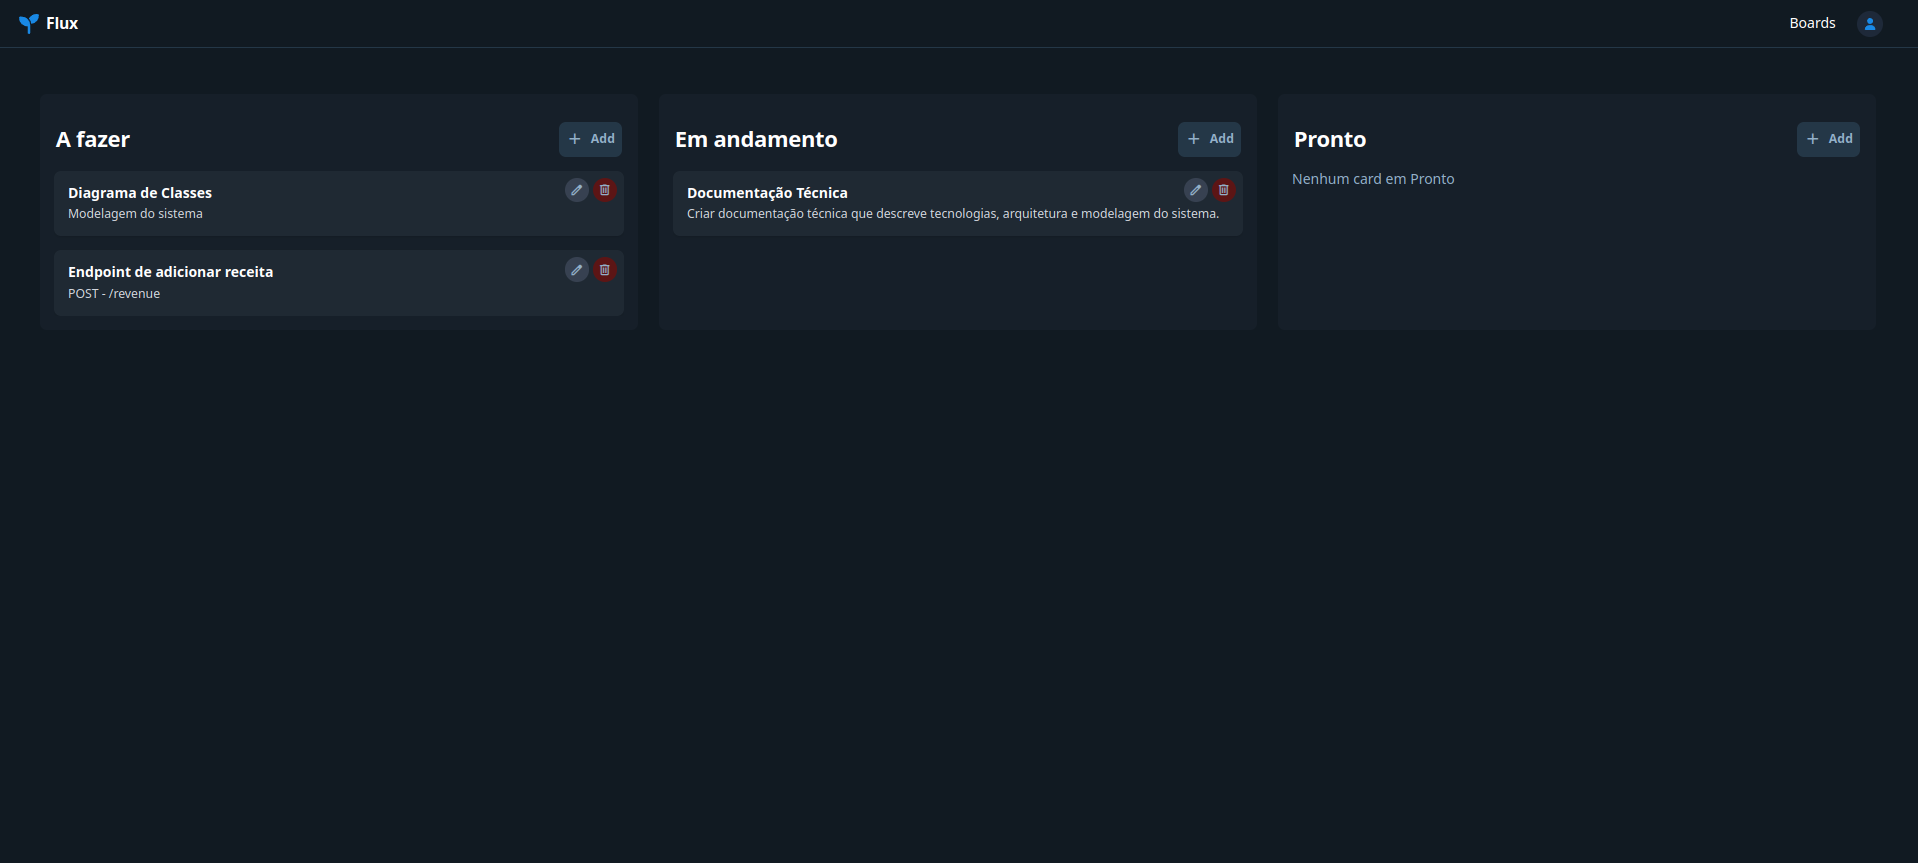
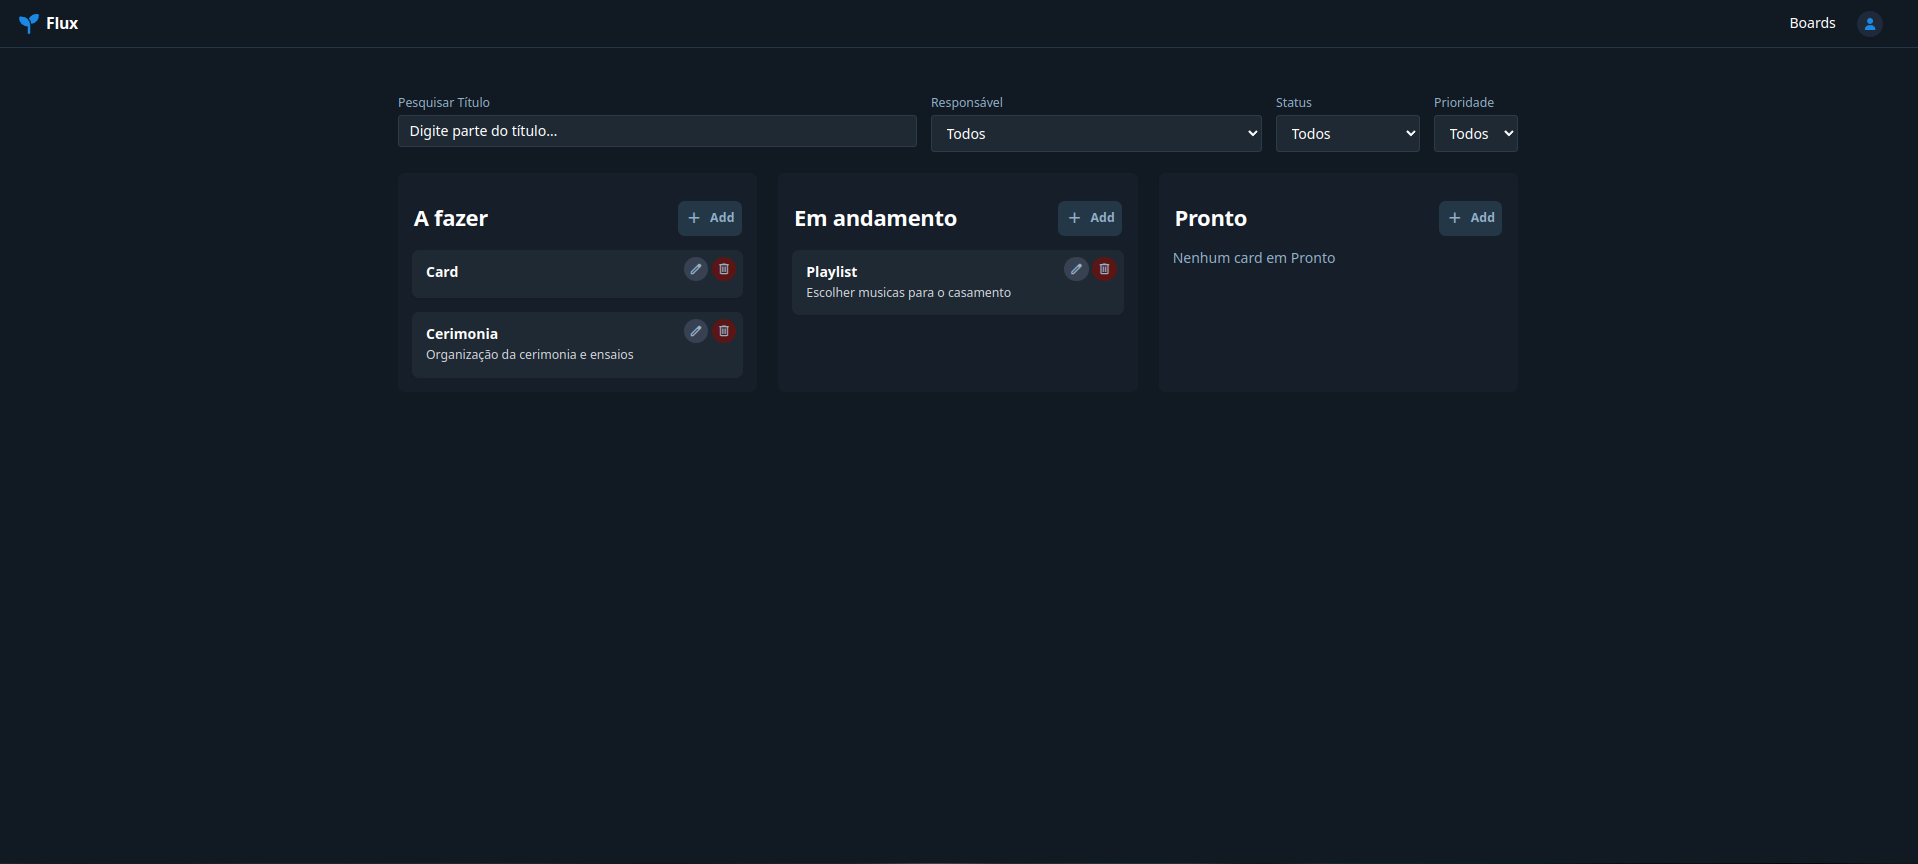
feature(docs): Adjusts README.md

diff --git a/flux-frontend/src/app/features/board/board-management-page/board-management-page.component.ts b/flux-frontend/src/app/features/board/board-management-page/board-management-page.component.ts
@@ -1,12 +1,12 @@
 // src/app/pages/board-management-page/board-management-page.component.ts
-import { Component, inject, signal } from '@angular/core';
-import { Router, RouterModule } from '@angular/router';
-import { BoardService } from '../../../core/service/board.service';
-import { Board } from '../../../core/models/board';
-import { FormsModule } from '@angular/forms';
-import { MaterialSymbolComponent } from '../../../shared/components/material-symbol/material-symbol.component';
-import { DialogService } from '../../../core/service/dialog.service';
-import { UserService } from '../../../core/service/user.service';
+import {Component, inject, signal} from '@angular/core';
+import {Router, RouterModule} from '@angular/router';
+import {BoardService} from '../../../core/service/board.service';
+import {Board} from '../../../core/models/board';
+import {FormsModule} from '@angular/forms';
+import {MaterialSymbolComponent} from '../../../shared/components/material-symbol/material-symbol.component';
+import {DialogService} from '../../../core/service/dialog.service';
+import {UserService} from '../../../core/service/user.service';
 
 @Component({
     selector: 'app-boards-page',
@@ -20,28 +20,28 @@ import { UserService } from '../../../core/service/user.service';
     styleUrls: ['./board-management-page.component.css']
 })
 export class BoardManagementPageComponent {
-    private boardService    = inject(BoardService);
-    private router          = inject(Router);
-    private dialogService   = inject(DialogService);
-    private userService     = inject(UserService);
+    private boardService = inject(BoardService);
+    private router = inject(Router);
+    private dialogService = inject(DialogService);
+    private userService = inject(UserService);
 
-    boardsSignal         = signal<Board[]>([]);
-    loadingSignal        = signal(true);
+    boardsSignal = signal<Board[]>([]);
+    loadingSignal = signal(true);
 
-    showNewInputSignal   = signal(false);
-    newBoardTitleSignal  = signal('');
-    newBoardErrorSignal  = signal('');
+    showNewInputSignal = signal(false);
+    newBoardTitleSignal = signal('');
+    newBoardErrorSignal = signal('');
 
-    editingIdSignal      = signal<string | null>(null);
-    editTitleSignal      = signal('');
-    editErrorSignal      = signal('');
+    editingIdSignal = signal<string | null>(null);
+    editTitleSignal = signal('');
+    editErrorSignal = signal('');
 
-    showAccessModal      = signal(false);
-    currentBoard         = signal<Board | null>(null);
+    showAccessModal = signal(false);
+    currentBoard = signal<Board | null>(null);
     newCollaboratorEmail = signal('');
-    accessError          = signal('');
+    accessError = signal('');
 
-    currentUserIdSignal  = signal<number | null>(null);
+    currentUserIdSignal = signal<number | null>(null);
 
     currentUserEmail = signal<string | null>(null);
 

diff --git a/flux-frontend/src/app/features/board/board-management-page/board-management-page.component.html b/flux-frontend/src/app/features/board/board-management-page/board-management-page.component.html
@@ -81,7 +81,7 @@
                             </div>
 
                             @if (board.ownerId === currentUserIdSignal()) {
-                                <div class="absolute top-2 right-2 opacity-0 group-hover:opacity-100 transition-opacity flex space-x-2">
+                                <div class="absolute top-2 right-2 flex space-x-2">
                                     <button
                                         (click)="openAccessModal(board); $event.stopPropagation()"
                                         class="flex items-center p-1.5 bg-[#374151] hover:bg-[#4b5563] text-[#93b0c8] rounded-full"

diff --git a/README.md b/README.md
@@ -146,7 +146,7 @@ Flux é uma aplicação web de gerenciamento de tarefas em estilo Kanban, que pe
 ### 5. Tela Kanban (Cards)
 
 ![Kanban](docs/2025-06-04_03-51-kanban-list.png)
-*Descrição: Quadro Kanban dividido em colunas “A fazer”, “Em andamento” e “Pronto”. Botão “Add” em cada coluna para criar novos cards.*
+*Descrição: Quadro Kanban dividido em colunas “A fazer”, “Em andamento” e “Pronto”. Botão “Add” em cada coluna para criar novos cards e filtros por **título**, **responsável**, **status** e **prioridade**.*
 
 ---
 
